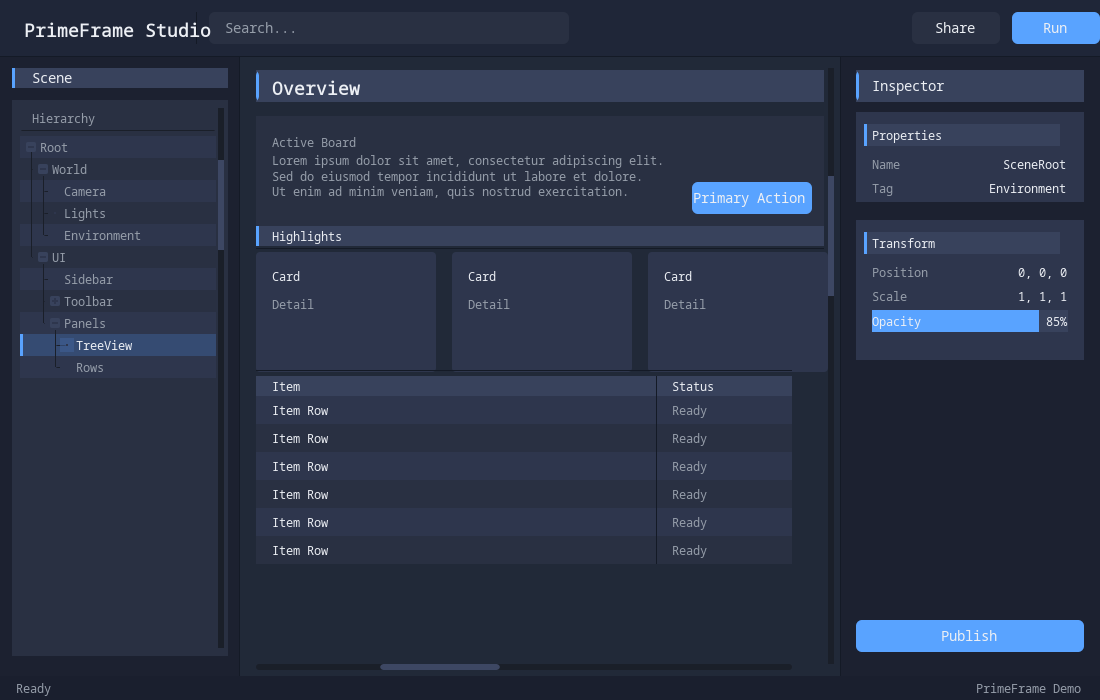
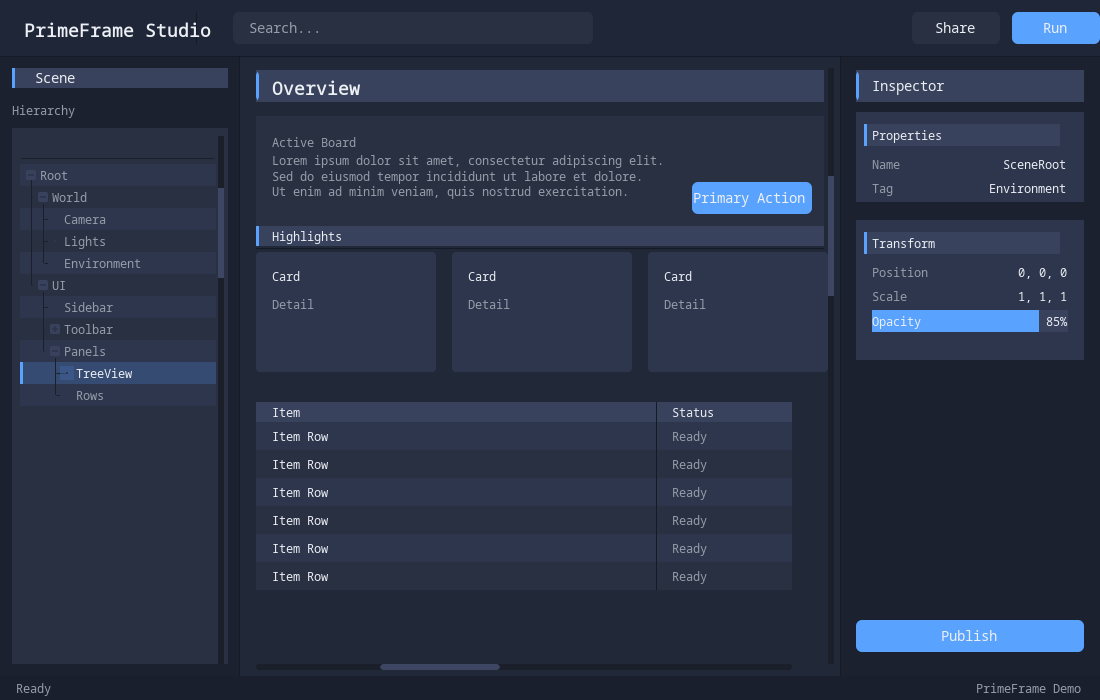
Tweak render demo spacing

diff --git a/examples/primestage_render_demo.cpp b/examples/primestage_render_demo.cpp
@@ -29,7 +29,6 @@ int main(int argc, char** argv) {
   Bounds sidebarBounds = shell.sidebarBounds;
   Bounds contentBounds = shell.contentBounds;
   Bounds inspectorBounds = shell.inspectorBounds;
-  Bounds sidebarLocal{0.0f, 0.0f, sidebarBounds.width, sidebarBounds.height};
   Bounds inspectorLocal{0.0f, 0.0f, inspectorBounds.width, inspectorBounds.height};
   float contentW = contentBounds.width;
   float contentH = contentBounds.height;
@@ -72,6 +71,7 @@ int main(int argc, char** argv) {
                        PrimeFrame::TextAlign::Center);
     row.createDivider(rectToken(RectRole::Divider),
                       fixed(UiDefaults::DividerThickness, UiDefaults::ControlHeight));
+    row.createSpacer(fixed(UiDefaults::PanelInset, UiDefaults::ControlHeight));
     row.createTextField("Search...", fixed(UiDefaults::FieldWidthL, UiDefaults::ControlHeight));
 
     SizeSpec spacer;
@@ -87,48 +87,55 @@ int main(int argc, char** argv) {
   };
 
   auto create_sidebar = [&]() {
-    float headerY = UiDefaults::PanelInset;
-    float treeTop = headerY + UiDefaults::HeaderHeight + UiDefaults::PanelInset;
-    float treeBottomInset = UiDefaults::HeaderHeight;
-    Bounds treePanelBounds = insetBounds(sidebarLocal,
-                                         UiDefaults::PanelInset,
-                                         treeTop,
-                                         UiDefaults::PanelInset,
-                                         treeBottomInset);
-    UiNode treePanel = add_panel(leftRail, treePanelBounds, RectRole::Panel);
-    add_panel(leftRail,
-              Bounds{UiDefaults::PanelInset,
-                     headerY,
-                     sidebarW - UiDefaults::PanelInset * 2.0f,
-                     UiDefaults::HeaderHeight},
-              RectRole::PanelStrong);
-    add_panel(leftRail,
-              Bounds{UiDefaults::PanelInset,
-                     headerY,
-                     UiDefaults::AccentThickness,
-                     UiDefaults::HeaderHeight},
-              RectRole::Accent);
+    StackSpec columnSpec;
+    columnSpec.size.preferredWidth = sidebarW;
+    columnSpec.size.preferredHeight = sidebarBounds.height;
+    columnSpec.padding = Insets{UiDefaults::PanelInset,
+                                UiDefaults::PanelInset,
+                                UiDefaults::PanelInset,
+                                UiDefaults::PanelInset};
+    columnSpec.gap = UiDefaults::PanelInset;
+    UiNode column = leftRail.createVerticalStack(columnSpec);
 
-    float labelX = UiDefaults::PanelInset + UiDefaults::LabelIndent;
-    float labelW = std::max(0.0f, sidebarW - labelX - UiDefaults::PanelInset);
-    leftRail.createTextLine(Bounds{labelX,
-                                   headerY,
-                                   labelW,
-                                   UiDefaults::HeaderHeight},
-                               "Scene",
-                               TextRole::BodyBright);
-    leftRail.createTextLine(Bounds{labelX,
-                                   treeTop + UiDefaults::LabelGap,
-                                   labelW,
-                                   UiDefaults::HeaderHeight},
-                               "Hierarchy",
-                               TextRole::SmallMuted);
+    PanelSpec headerSpec;
+    headerSpec.rectStyle = rectToken(RectRole::PanelStrong);
+    headerSpec.layout = PrimeFrame::LayoutType::HorizontalStack;
+    headerSpec.size.preferredHeight = UiDefaults::HeaderHeight;
+    UiNode header = column.createPanel(headerSpec);
+
+    SizeSpec accentSize;
+    accentSize.preferredWidth = UiDefaults::AccentThickness;
+    accentSize.preferredHeight = UiDefaults::HeaderHeight;
+    header.createPanel(rectToken(RectRole::Accent), accentSize);
+
+    SizeSpec indentSize;
+    indentSize.preferredWidth = UiDefaults::LabelIndent;
+    indentSize.preferredHeight = UiDefaults::HeaderHeight;
+    header.createSpacer(indentSize);
+
+    SizeSpec headerTextSize;
+    headerTextSize.stretchX = 1.0f;
+    headerTextSize.preferredHeight = UiDefaults::HeaderHeight;
+    header.createTextLine("Scene", TextRole::BodyBright, headerTextSize);
+
+    SizeSpec hierarchyTextSize;
+    hierarchyTextSize.preferredHeight = UiDefaults::HeaderHeight;
+    column.createTextLine("Hierarchy", TextRole::SmallMuted, hierarchyTextSize);
+
+    PanelSpec treePanelSpec;
+    treePanelSpec.rectStyle = rectToken(RectRole::Panel);
+    treePanelSpec.size.stretchX = 1.0f;
+    treePanelSpec.size.stretchY = 1.0f;
+    UiNode treePanel = column.createPanel(treePanelSpec);
 
     TreeViewSpec treeSpec;
-    treeSpec.bounds = Bounds{0.0f, 0.0f, treePanelBounds.width, treePanelBounds.height};
+    float treeWidth = std::max(0.0f, sidebarW - UiDefaults::PanelInset * 2.0f);
+    float treeHeight = std::max(0.0f, sidebarBounds.height - UiDefaults::PanelInset * 2.0f -
+                                        UiDefaults::HeaderHeight * 2.0f - UiDefaults::PanelInset);
+    treeSpec.bounds = Bounds{0.0f, 0.0f, treeWidth, treeHeight};
     treeSpec.showHeaderDivider = true;
     treeSpec.headerDividerY = UiDefaults::TreeHeaderDividerY;
-    float treeTrackH = treePanelBounds.height - treeSpec.scrollBar.padding * 2.0f;
+    float treeTrackH = treeSpec.bounds.height - treeSpec.scrollBar.padding * 2.0f;
     setScrollBarThumbPixels(treeSpec.scrollBar,
                             treeTrackH,
                             UiDefaults::ScrollThumbHeight,
@@ -209,6 +216,7 @@ int main(int argc, char** argv) {
                                    {"Card", "Detail"}
                                });
     cursorY += UiDefaults::CardHeight + UiDefaults::SectionGapLarge;
+    cursorY += UiDefaults::TableHeaderOffset + UiDefaults::TableHeaderPadY;
 
     float boardTextWidth = std::max(0.0f, primaryBounds.x - boardPanelBounds.x -
                                             UiDefaults::SurfaceInset - UiDefaults::PanelInset);
@@ -233,22 +241,25 @@ int main(int argc, char** argv) {
     float firstColWidth = contentW - UiDefaults::TableStatusOffset;
     float secondColWidth = tableWidth - firstColWidth;
 
-    centerPane.createTable(Bounds{UiDefaults::SurfaceInset,
-                                  listHeaderY - UiDefaults::TableHeaderPadY,
-                                  tableWidth,
-                                  0.0f},
-                            {
-                                TableColumn{"Item", firstColWidth, TextRole::SmallBright, TextRole::SmallBright},
-                                TableColumn{"Status", secondColWidth, TextRole::SmallBright, TextRole::SmallMuted}
-                            },
-                            {
-                                {"Item Row", "Ready"},
-                                {"Item Row", "Ready"},
-                                {"Item Row", "Ready"},
-                                {"Item Row", "Ready"},
-                                {"Item Row", "Ready"},
-                                {"Item Row", "Ready"}
-                            });
+    TableSpec tableSpec;
+    tableSpec.bounds = Bounds{UiDefaults::SurfaceInset,
+                              listHeaderY - UiDefaults::TableHeaderPadY,
+                              tableWidth,
+                              0.0f};
+    tableSpec.showHeaderDividers = false;
+    tableSpec.columns = {
+        TableColumn{"Item", firstColWidth, TextRole::SmallBright, TextRole::SmallBright},
+        TableColumn{"Status", secondColWidth, TextRole::SmallBright, TextRole::SmallMuted}
+    };
+    tableSpec.rows = {
+        {"Item Row", "Ready"},
+        {"Item Row", "Ready"},
+        {"Item Row", "Ready"},
+        {"Item Row", "Ready"},
+        {"Item Row", "Ready"},
+        {"Item Row", "Ready"}
+    };
+    centerPane.createTable(tableSpec);
 
     centerPane.createScrollHints(Bounds{0.0f, 0.0f, contentW, contentH});
   };
